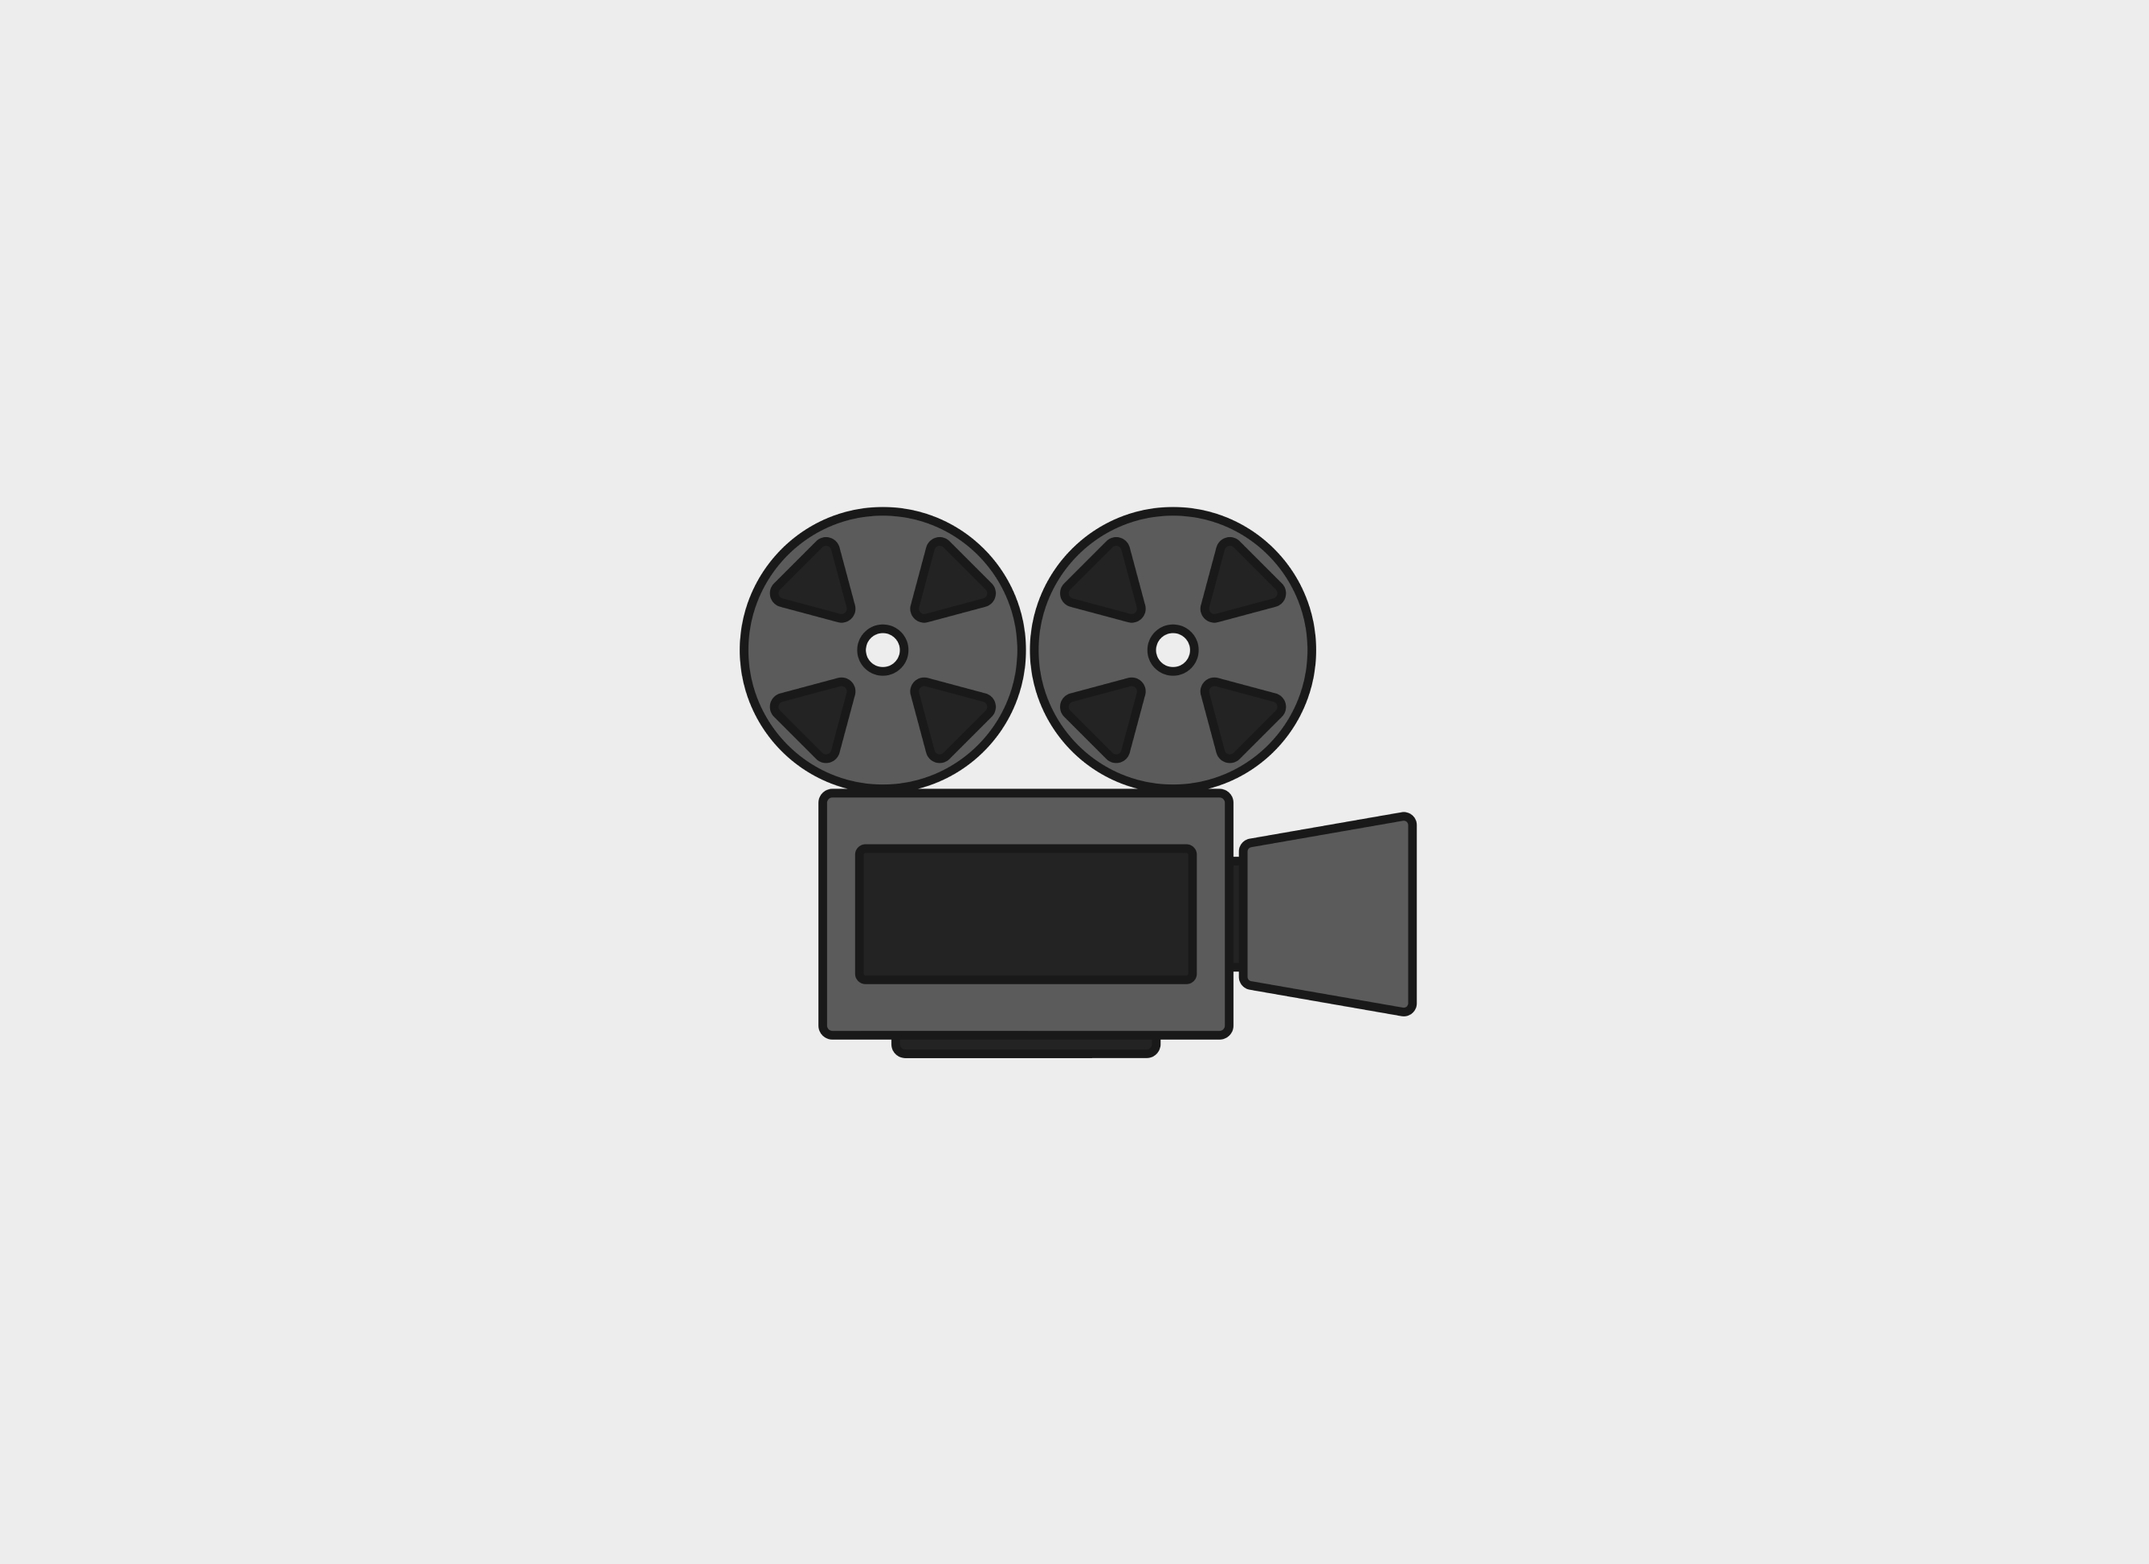
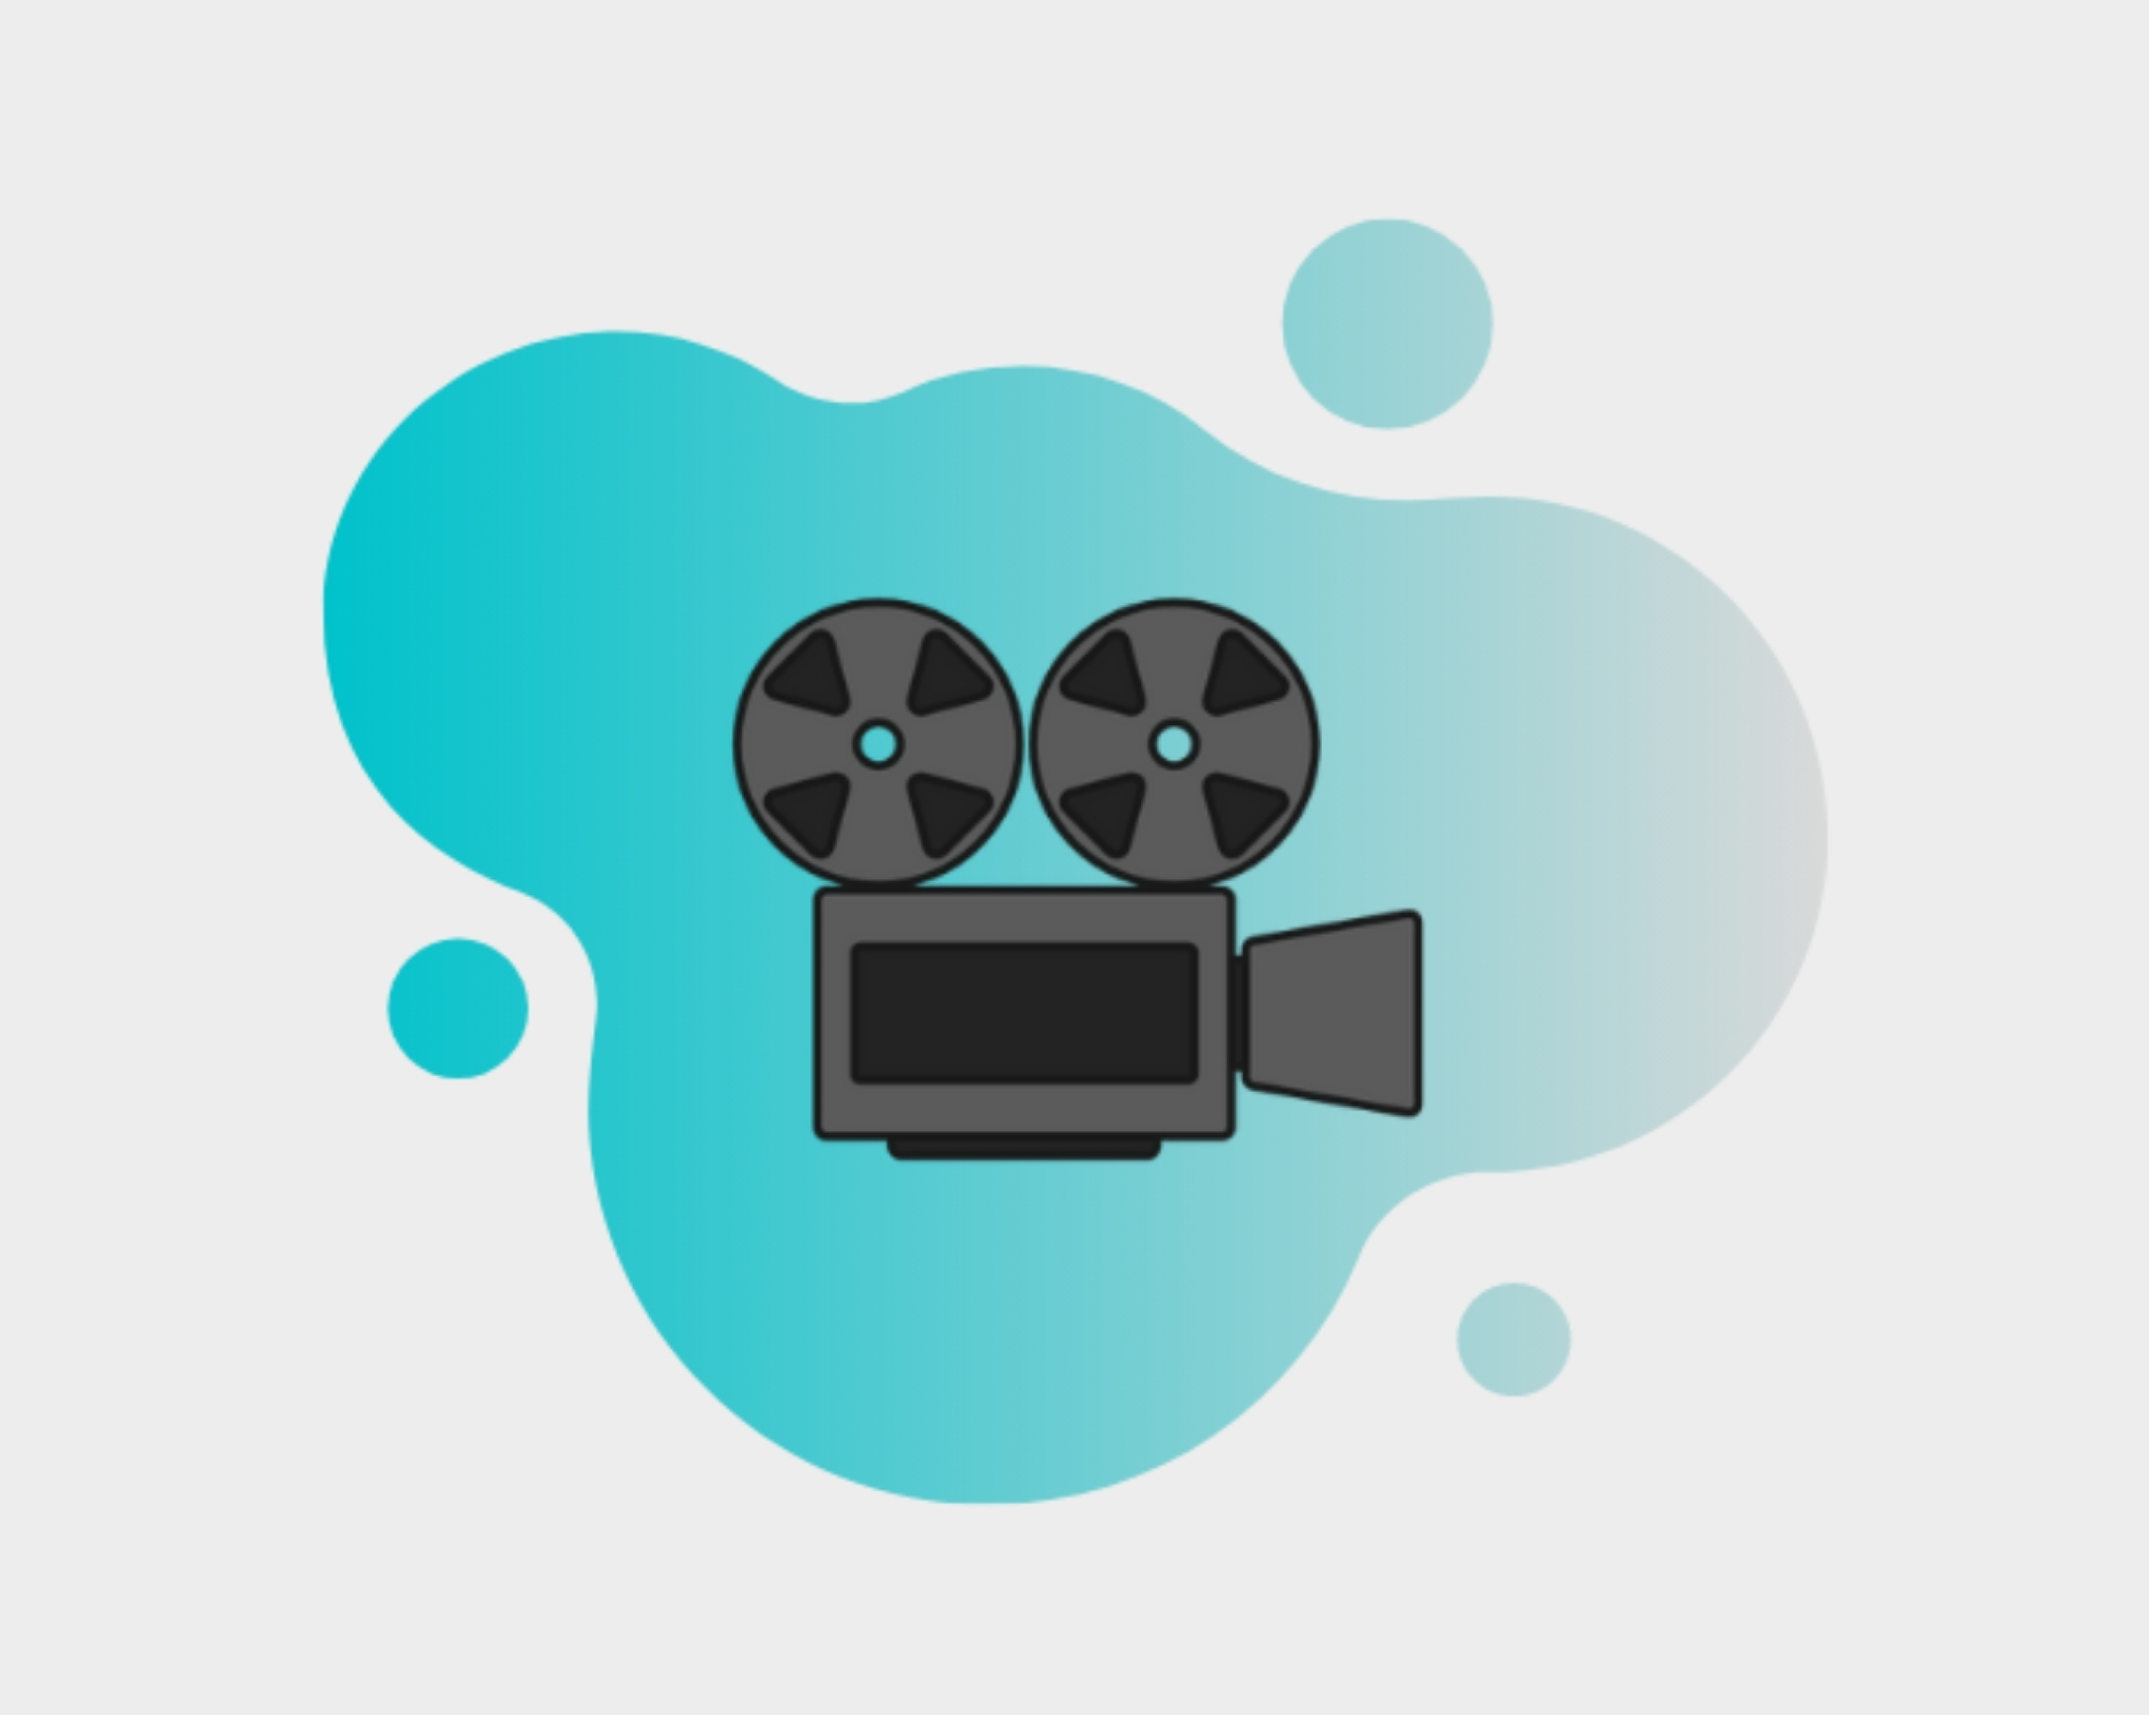
Projects - Projects images added

Changed region(s): [[0.1241, 0.1848, 0.8374, 0.8932], [0.5893, 0.1232, 0.7134, 0.2464], [0.6513, 0.7392, 0.7444, 0.8316]]

diff --git a/data/ProjectsData.tsx b/data/ProjectsData.tsx
@@ -4,11 +4,15 @@ import Shouter from '../public/assets/images/Shouter.jpg';
 import ShouterSmall from '../public/assets/images/ShouterSmall.jpg';
 import MyMovieDB from '../public/assets/images/MyMovieDB.jpg';
 import MyMovieDBSmall from '../public/assets/images/MyMovieDBSmall.jpg';
+import Excelsis from '../public/assets/images/Excelsis.jpg';
+import ExcelsisSmall from '../public/assets/images/ExcelsisSmall.jpg';
+import BePrepared from '../public/assets/images/BePrepared.jpg';
+import BePreparedSmall from '../public/assets/images/BePreparedSmall.jpg';
 
 const ProjectsData = [
   {
-    title: 'shouter',
-    link: 'https://www.facebook.com/moldovanu.andrei.165/',
+    title: 'Shouter',
+    link: 'https://shouter.app',
     top: false,
     primary: false,
     primaryImage: (
@@ -31,14 +35,41 @@ const ProjectsData = [
     ),
   },
   {
-    title: 'mymoviedb',
+    title: 'Excelsis',
     link: 'https://www.instagram.com/m.albert_andrei/',
     top: true,
     primary: true,
+    width: 380,
+    primaryImage: (
+      <Image
+        src={Excelsis}
+        alt="Excelsis"
+        layout="fill"
+        placeholder="blur"
+        objectFit="cover"
+      />
+    ),
+    secondaryImage: (
+      <Image
+        src={ExcelsisSmall}
+        alt="Excelsis small"
+        layout="fill"
+        placeholder="blur"
+        objectFit="cover"
+      />
+    ),
+  },
+  {
+    title: 'MyMovieDB',
+    link: 'https://github.com/Albert-Andrei/MyAndroidApp',
+    top: false,
+    primary: true,
+    width: 370,
+    height: 350,
     primaryImage: (
       <Image
         src={MyMovieDB}
-        alt="avatar"
+        alt="MyMovieDB"
         layout="fill"
         placeholder="blur"
         objectFit="cover"
@@ -47,22 +78,7 @@ const ProjectsData = [
     secondaryImage: (
       <Image
         src={MyMovieDBSmall}
-        alt="shouter small"
-        layout="fill"
-        placeholder="blur"
-        objectFit="cover"
-      />
-    ),
-  },
-  {
-    title: 'linkedin',
-    link: 'https://www.linkedin.com/in/albert-andrei-moldovanu-0a8199209/',
-    top: false,
-    primary: true,
-    primaryImage: (
-      <Image
-        src={Shouter}
-        alt="avatar"
+        alt="MyMovieDB small"
         layout="fill"
         placeholder="blur"
         objectFit="cover"
@@ -76,8 +92,17 @@ const ProjectsData = [
     primary: true,
     primaryImage: (
       <Image
-        src={Shouter}
-        alt="avatar"
+        src={BePrepared}
+        alt="BePrepared"
+        layout="fill"
+        placeholder="blur"
+        objectFit="cover"
+      />
+    ),
+    secondaryImage: (
+      <Image
+        src={BePreparedSmall}
+        alt="BePrepared Small"
         layout="fill"
         placeholder="blur"
         objectFit="cover"

diff --git a/components/Forms/Projects/Projects.tsx b/components/Forms/Projects/Projects.tsx
@@ -23,7 +23,11 @@ const Projects: React.FC = () => {
             top={project.top}
             translate={[200, 0]}
             easing={[0, 0.4, 0.5, 1]}
-            extendedStyle={{ background: 'pink', width: 400, height: 300 }}
+            extendedStyle={{
+              background: 'pink',
+              width: project.width ? project.width : 400,
+              height: project.height ? project.height : 300,
+            }}
           >
             <Styles.ContentContainer>
               {project.secondaryImage}
